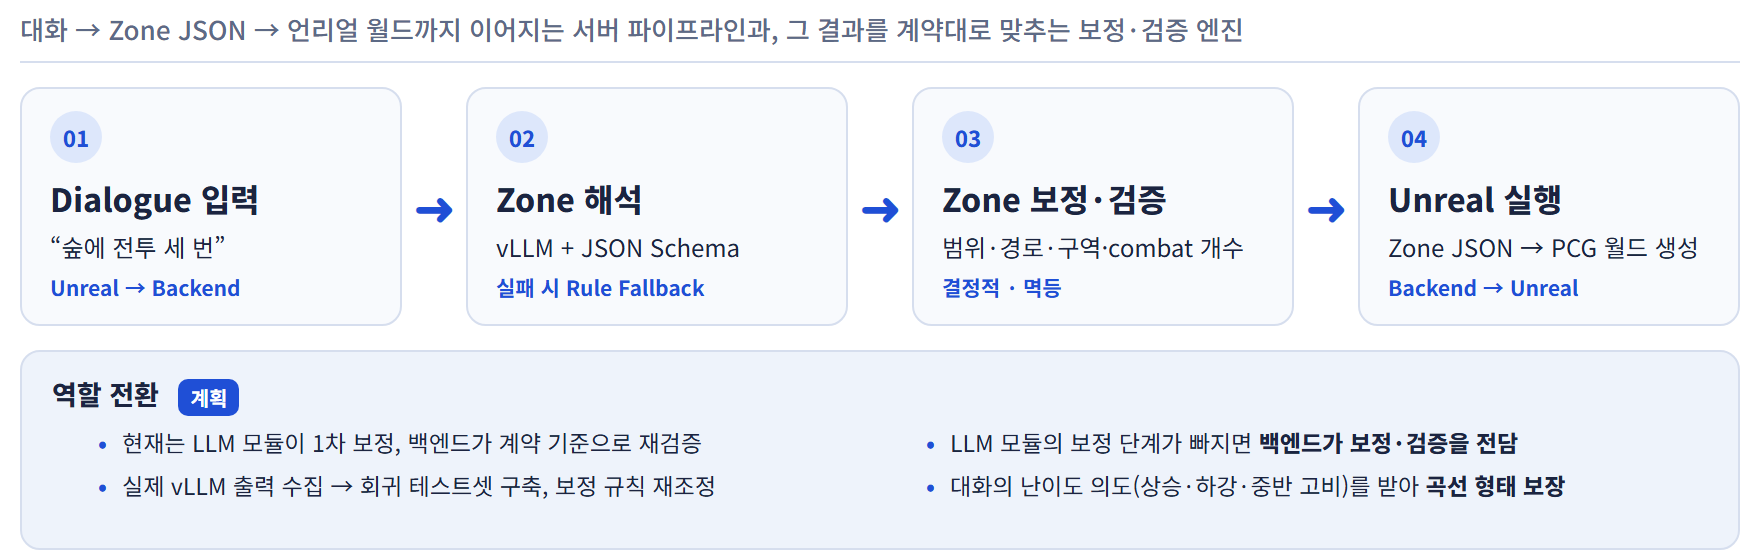
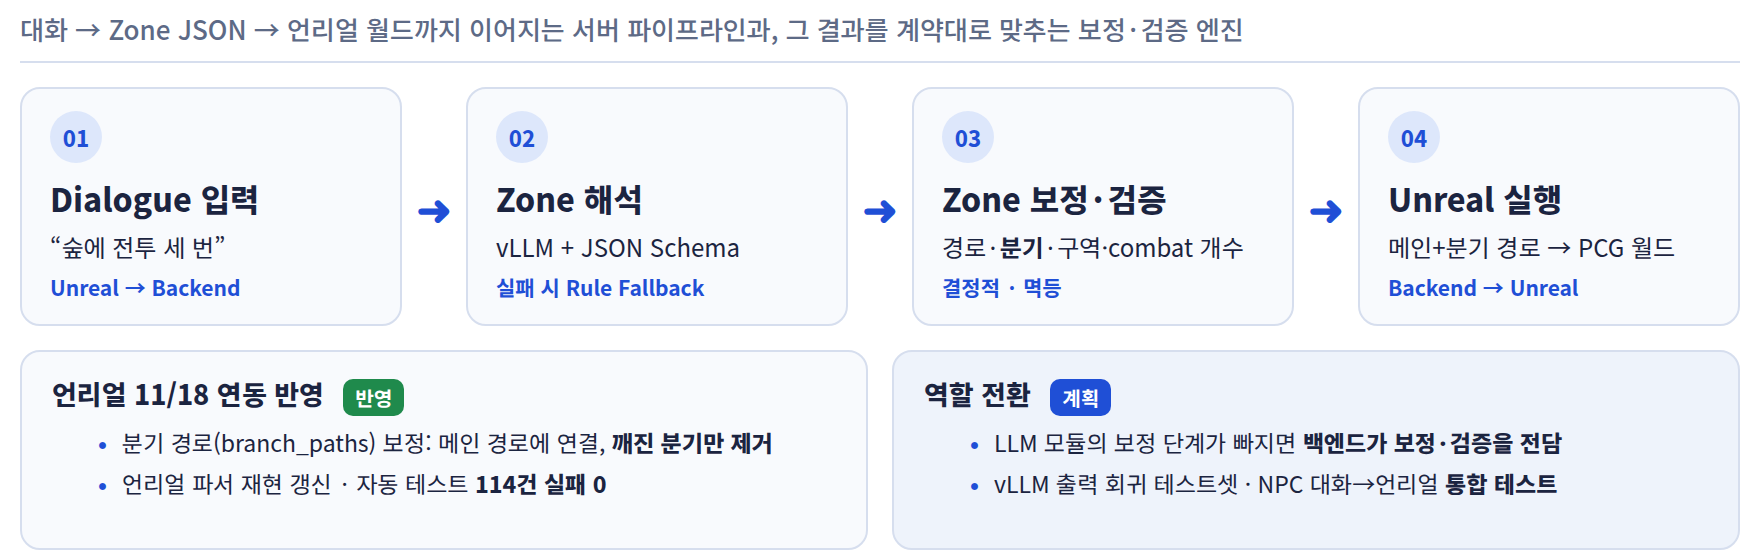
docs: 테스트 114건 반영, 발표 슬라이드 11 도식 갱신(분기 경로 반영)

diff --git a/docs/slides/slide11.html b/docs/slides/slide11.html
@@ -24,6 +24,8 @@
   .panel li { font-size:23px; line-height:1.35; padding-left:30px; position:relative; }
   .panel li::before { content:"•"; position:absolute; left:6px; color:var(--blue); font-weight:800; }
   .panel li b { font-weight:800; }
+  .panel ul.one { grid-template-columns:1fr; gap:10px; }
+  .gap { width:24px; }
 </style></head><body><div class="wrap">
   <div class="sub">대화 → Zone JSON → 언리얼 월드까지 이어지는 서버 파이프라인과, 그 결과를 계약대로 맞추는 보정·검증 엔진</div>
   <div class="steps">
@@ -31,18 +33,24 @@
     <div class="arrow">➜</div>
     <div class="card"><div class="num">02</div><h3>Zone 해석</h3><div class="d">vLLM + JSON Schema</div><div class="t">실패 시 Rule Fallback</div></div>
     <div class="arrow">➜</div>
-    <div class="card"><div class="num">03</div><h3>Zone 보정·검증</h3><div class="d">범위·경로·구역·combat 개수</div><div class="t">결정적 · 멱등</div></div>
+    <div class="card"><div class="num">03</div><h3>Zone 보정·검증</h3><div class="d">경로·<b>분기</b>·구역·combat 개수</div><div class="t">결정적 · 멱등</div></div>
     <div class="arrow">➜</div>
-    <div class="card"><div class="num">04</div><h3>Unreal 실행</h3><div class="d">Zone JSON → PCG 월드 생성</div><div class="t">Backend → Unreal</div></div>
+    <div class="card"><div class="num">04</div><h3>Unreal 실행</h3><div class="d">메인+분기 경로 → PCG 월드</div><div class="t">Backend → Unreal</div></div>
   </div>
   <div class="bottom">
+    <div class="panel">
+      <h4>언리얼 11/18 연동 반영 <span class="now">반영</span></h4>
+      <ul class="one">
+        <li>분기 경로(branch_paths) 보정: 메인 경로에 연결, <b>깨진 분기만 제거</b></li>
+        <li>언리얼 파서 재현 갱신 · 자동 테스트 <b>114건 실패 0</b></li>
+      </ul>
+    </div>
+    <div class="gap"></div>
     <div class="panel plan">
       <h4>역할 전환 <span>계획</span></h4>
-      <ul>
-        <li>현재는 LLM 모듈이 1차 보정, 백엔드가 계약 기준으로 재검증</li>
+      <ul class="one">
         <li>LLM 모듈의 보정 단계가 빠지면 <b>백엔드가 보정·검증을 전담</b></li>
-        <li>실제 vLLM 출력 수집 → 회귀 테스트셋 구축, 보정 규칙 재조정</li>
-        <li>대화의 난이도 의도(상승·하강·중반 고비)를 받아 <b>곡선 형태 보장</b></li>
+        <li>vLLM 출력 회귀 테스트셋 · NPC 대화→언리얼 <b>통합 테스트</b></li>
       </ul>
     </div>
   </div>

diff --git a/docs/TEST_RESULTS_1차.md b/docs/TEST_RESULTS_1차.md
@@ -1,6 +1,6 @@
 # 1차 테스트 결과서 — 백엔드 (LLM-Driven PCG Server)
 
-생성: 2026-11-19 15:37 (로컬) · 대상 커밋: `79ed11e` (claude/gallant-ritchie-72e2e5, 2026-11-19) · Node v26.13.1 · linux
+생성: 2026-11-19 15:43 (로컬) · 대상 커밋: `5b106b1` (claude/gallant-ritchie-72e2e5, 2026-11-19) · Node v26.13.1 · linux
 
 ## 1. 개요
 
@@ -14,7 +14,7 @@
 |---|---|
 | 실행 환경 | Node.js v26.13.1, linux x64 |
 | 러너 | Node 내장 `node:test` + `assert/strict` (추가 의존성 없음) |
-| 대상 코드 | https://github.com/ddaokki/LLM-Driven-PCG-Server — 커밋 `79ed11e` |
+| 대상 코드 | https://github.com/ddaokki/LLM-Driven-PCG-Server — 커밋 `5b106b1` |
 | 언리얼 계약 기준 | Choibw/LLMDrivenPlayablePCG `PCGZoneController.cpp` 2026-11-18 커밋 `80a1ee1` (Area 액터 자동 생성, 전 combat 클리어 시 goal 활성화, `branch_paths`·`danger`·`path_width` 반영) |
 | 입력 방식 | `validatePCGParams()` 직접 호출 / 임시 포트 HTTP 서버에 fetch |
 | 확인 수단 | assert, 불변식 검사기(`test/helpers/invariants.js`), 언리얼 목 파서(`unreal_parser_mock.js`) |
@@ -25,7 +25,7 @@
 
 | 총 항목 | 통과 | 실패 | 건너뜀 | 판정 |
 |---|---|---|---|---|
-| 112 | 108 | 0 | 4 | **전체 통과** |
+| 114 | 110 | 0 | 4 | **전체 통과** |
 
 > 건너뜀 4건은 Redis가 필요한 세션 테스트(SESSION-xx)다. 이 결과서를 생성한 환경에 Redis가 없어 실행되지 않았다(로컬 Redis 기동 후 `npm test`로 재실행 가능).
 
@@ -45,42 +45,44 @@
 
 | ID / 확인 항목 | 결과 | 소요 |
 |---|---|---|
-| BE-T01 밀도 합 정규화 + 테마별 범위 클램프 | PASS | 3.6 ms |
-| BE-T02 범위 초과 단일값(0.95)은 테마 상한으로 보정되고 리포트에 남음 | PASS | 0.2 ms |
-| BE-T03 area_type 화이트리스트: 구버전 문자열은 combat으로 | PASS | 1.0 ms |
-| BE-T04 spawn/goal 없으면 자동 추가되어 경로 양끝에 위치 | PASS | 0.4 ms |
-| BE-T05 응답 스키마: base_environment/main_path 중첩, 최상위 평평한 필드 없음 | PASS | 0.4 ms |
-| normalizeInput: 평평한 구버전과 중첩 신버전 모두 같은 형태로 | PASS | 0.3 ms |
-| BE-T11 combat_count 0/1/3 (입력 없음) | PASS | 0.6 ms |
+| BE-T01 밀도 합 정규화 + 테마별 범위 클램프 | PASS | 4.2 ms |
+| BE-T02 범위 초과 단일값(0.95)은 테마 상한으로 보정되고 리포트에 남음 | PASS | 0.3 ms |
+| BE-T03 area_type 화이트리스트: 구버전 문자열은 combat으로 | PASS | 1.2 ms |
+| BE-T04 spawn/goal 없으면 자동 추가되어 경로 양끝에 위치 | PASS | 0.5 ms |
+| BE-T05 응답 스키마: base_environment/main_path 중첩, 최상위 평평한 필드 없음 | PASS | 0.5 ms |
+| normalizeInput: 평평한 구버전과 중첩 신버전 모두 같은 형태로 | PASS | 0.2 ms |
+| BE-T11 combat_count 0/1/3 (입력 없음) | PASS | 0.7 ms |
 | BE-T12 뒤섞인 순서 → 진행도 정렬, 과밀집 → 최소 간격 0.06 | PASS | 0.4 ms |
 | V3-01 8자 경로 자기교차 해소 + hard violation 기록 | PASS | 0.4 ms |
 | V3-02 spawn-goal 거리 0.2 → 0.45 이상 | PASS | 0.4 ms |
 | V3-03 spawn/goal 중심이 경로 양끝에서 떨어져 있으면 스냅 | PASS | 0.3 ms |
-| V3-04 경로에서 먼 combat은 가장자리 거리 ≤ 0.12로 끌어옴 | PASS | 0.2 ms |
+| V3-04 경로에서 먼 combat은 가장자리 거리 ≤ 0.12로 끌어옴 | PASS | 0.3 ms |
 | V3-05 겹친 combat 두 개 → 2D 분리, 둘 다 살아남음 | PASS | 0.2 ms |
 | V3-06 난이도 곡선: combat detail_density가 진행 방향으로 단조 비감소, 값 집합 유지 | PASS | 0.3 ms |
 | V3-07 테마 4종 통과, 미지정이면 밀도로 추정, 모르는 값은 forest | PASS | 0.3 ms |
 | V3-07b 테마 밀도 프로필: desert는 나무 ≤ 0.15, grassland는 풀 ≥ 0.6 | PASS | 0.1 ms |
 | V3-08 멱등성: validate(validate(x)) deepEqual validate(x) | PASS | 0.9 ms |
-| V3-09 위→아래 진행 경로: x가 아니라 진행도 순으로 정렬 | PASS | 0.2 ms |
-| V3-10 길이 0 경로(점 전부 동일) → 기본 경로로 대체, 예외 없음 | PASS | 0.5 ms |
+| V3-09 위→아래 진행 경로: x가 아니라 진행도 순으로 정렬 | PASS | 0.3 ms |
+| V3-10 길이 0 경로(점 전부 동일) → 기본 경로로 대체, 예외 없음 | PASS | 0.6 ms |
 | V3-11 spawn 3개/goal 0개 → spawn 1개만 유지, 나머지 combat 강등, goal 추가 | PASS | 0.2 ms |
 | V3-12 debug 옵션일 때만 validation_report 포함 | PASS | 0.1 ms |
-| V3-13 구역 9개 이상이면 8개로 제한(spawn/goal 유지) | PASS | 0.2 ms |
+| V3-13 구역 9개 이상이면 8개로 제한(spawn/goal 유지) | PASS | 0.3 ms |
 | V3-14 combatCount 옵션이 입력과 함께 오면 그 개수로 맞춤(부족분 추가/초과분 제거) | PASS | 0.3 ms |
 | V3-15 급회전(헤어핀) 완화: 출력 경로에 25° 미만 꼭짓점 없음 | PASS | 0.2 ms |
-| 타입 오염: 문자열/NaN/null/배열 아님 → 예외 없이 유효한 존 | PASS | 0.2 ms |
+| 타입 오염: 문자열/NaN/null/배열 아님 → 예외 없이 유효한 존 | PASS | 0.3 ms |
 | V3-16 처음에 겹쳐 있던 큰 combat들은 간격 확보 후 반지름이 과도하게 줄지 않음(최종 위치 기준 축소) | PASS | 0.2 ms |
-| V3-17 (리뷰 Important-1) 레이아웃 루프가 상한에 걸려도 최종 반지름 패스로 겹침 0 | PASS | 0.3 ms |
-| V3-18 (리뷰 Important-3) areas 80,000개 + combat_count 0 → 1초 이내 | PASS | 13.6 ms |
-| V3-19 언리얼 11-18 샘플 → shortcut 1개 유지, 양 끝 메인 경로 위, 언리얼 파서 통과 | PASS | 1.2 ms |
-| V3-20 branch 좌표가 문자열/음수/1 초과 → 여백 안으로 보정, 언리얼 파서 통과 | PASS | 0.3 ms |
+| V3-17 (리뷰 Important-1) 레이아웃 루프가 상한에 걸려도 최종 반지름 패스로 겹침 0 | PASS | 0.4 ms |
+| V3-18 (리뷰 Important-3) areas 80,000개 + combat_count 0 → 1초 이내 | PASS | 15.0 ms |
+| V3-19 언리얼 11-18 샘플 → shortcut 1개 유지, 양 끝 메인 경로 위, 언리얼 파서 통과 | PASS | 1.5 ms |
+| V3-20 branch 좌표가 문자열/음수/1 초과 → 여백 안으로 보정, 언리얼 파서 통과 | PASS | 0.4 ms |
 | V3-21 branch_paths가 배열 아님 → 키 없이 정상 존, 객체/문자열은 리포트에 기록 | PASS | 0.3 ms |
 | V3-22 유효 분기 3개 → 앞 2개만 | PASS | 0.2 ms |
 | V3-23 shortcut 끝점이 메인 진행도상 시작점보다 앞 → 점 순서 뒤집어 진행 방향 일치 | PASS | 0.2 ms |
 | V3-24 점 1개 / 길이 0.1 미만 / 객체 아님 → 그 분기만 버리고 이유 기록 | PASS | 0.2 ms |
-| V3-25 branch_paths 없는 입력 → 응답에 키 자체가 없음(기존 계약 불변) | PASS | 0.2 ms |
-| V3-26 branch 포함 입력도 멱등: validate(validate(x)) === validate(x) | PASS | 0.6 ms |
+| V3-25 branch_paths 없는 입력 → 응답에 키 자체가 없음(기존 계약 불변) | PASS | 0.3 ms |
+| V3-26 branch 포함 입력도 멱등: validate(validate(x)) === validate(x) | PASS | 0.8 ms |
+| V3-27 (리뷰 Important-1) 경로에서 1e-4 이내로 붙은 끝점도 반올림 후 메인 경로 위 + 멱등 | PASS | 0.4 ms |
+| V3-28 (리뷰 Important-2) 지름길 진행도 차가 0.06 경계 근처여도 멱등 | PASS | 0.2 ms |
 
 ### 4.2 강건성 테스트 — 무작위 입력 2,000건 (LLM 명세 LLM-T06 대응, BE-FUZZ)
 
@@ -88,7 +90,7 @@
 
 | ID / 확인 항목 | 결과 | 소요 |
 |---|---|---|
-| BE-FUZZ 무작위 입력 2000건: 예외 0, 불변식 100%, 멱등성 100% | PASS | 287.5 ms |
+| BE-FUZZ 무작위 입력 2000건: 예외 0, 불변식 100%, 멱등성 100% | PASS | 297.4 ms |
 
 ### 4.3 단위 테스트 — 기하 유틸 (lib/geometry.js)
 
@@ -97,9 +99,9 @@
 | ID / 확인 항목 | 결과 | 소요 |
 |---|---|---|
 | segmentsIntersect: X자 교차는 true | PASS | 0.8 ms |
-| segmentsIntersect: 끝점만 공유하는 인접 구간은 false | PASS | 3.5 ms |
+| segmentsIntersect: 끝점만 공유하는 인접 구간은 false | PASS | 3.6 ms |
 | segmentsIntersect: 평행 비접촉은 false | PASS | 0.1 ms |
-| projectToPolyline: 경로 중간 위 점은 t≈0.5, dist≈0 | PASS | 0.4 ms |
+| projectToPolyline: 경로 중간 위 점은 t≈0.5, dist≈0 | PASS | 0.3 ms |
 | projectToPolyline: 경로 옆 점은 수직 거리와 투영점 반환 | PASS | 0.6 ms |
 | pointAtProgress: t=0 첫 점, t=1 마지막 점, t=0.5 중간 | PASS | 0.2 ms |
 | turnAngleDeg: 직진 180, 직각 90, 헤어핀 ~0 | PASS | 0.1 ms |
@@ -117,10 +119,10 @@
 
 | ID / 확인 항목 | 결과 | 소요 |
 |---|---|---|
-| VALID_THEMES는 4종 | PASS | 1.2 ms |
+| VALID_THEMES는 4종 | PASS | 1.3 ms |
 | inferTheme: 바위 많고 풀/나무 없음 → desert | PASS | 0.2 ms |
 | inferTheme: 풀 많고 나무 적음 → grassland | PASS | 0.1 ms |
-| inferTheme: forest 기본값 근처 → forest | PASS | 0.2 ms |
+| inferTheme: forest 기본값 근처 → forest | PASS | 0.3 ms |
 | inferTheme: 입력 없음 → forest | PASS | 0.1 ms |
 | getProfile: 모르는 테마는 forest 프로필 | PASS | 0.1 ms |
 | CorrectionReport: 점수/카운트 계산 | PASS | 0.2 ms |
@@ -132,21 +134,21 @@
 
 | ID / 확인 항목 | 결과 | 소요 |
 |---|---|---|
-| RULE-01 '나무가 빽빽한 숲, 전투 3번' → forest, combat 3, tree 성향 높음 | PASS | 6.6 ms |
-| RULE-02 '전투 없이 탐험' → combat 0 | PASS | 2.2 ms |
-| RULE-03 한글 수사: '세 번 싸우고' → 3, '두 개의 전투' → 2 | PASS | 0.8 ms |
-| RULE-04 테마 키워드: 사막/초원/설원, 영어도 | PASS | 3.3 ms |
-| RULE-05 길 모양/폭, 강도, 크기 | PASS | 1.0 ms |
-| RULE-06 빈 dialogue / 비배열 / 텍스트 없음 → 기본 의도(forest, combat 1) | PASS | 0.3 ms |
-| RULE-07 npc 질문의 키워드는 player 답변보다 약하게 반영 | PASS | 0.6 ms |
-| RULE-08 hashDialogue 결정적, 내용 다르면 다름 | PASS | 0.7 ms |
-| RULE-09 mulberry32: 같은 seed 같은 수열, [0,1) | PASS | 0.8 ms |
-| RULE-10 buildCandidateZone: 같은 의도+seed → deepEqual, seed 다르면 경로 다름 | PASS | 3.7 ms |
-| RULE-11 후보 → validator 통과 후 combat 수/테마 보존, 불변식 만족 (seed 0~199) | PASS | 167.7 ms |
-| RULE-12 후보 자체가 validator를 거의 안 거치게 생성됨(평균 보정 수 작음) | PASS | 6.1 ms |
-| RULE-13 '격렬한 큰 전투 두 번' → 2 ('격렬한'의 '한'을 수사로 오인하지 않음) | PASS | 1.5 ms |
-| RULE-14 (리뷰 Important-4) 전투와 무관한 숫자/단어는 전투 수로 세지 않음 | PASS | 0.7 ms |
-| RULE-15 (리뷰 Important-4) 영어 키워드는 단어 경계, '눈'은 눈앞/눈치에 안 걸림 | PASS | 0.5 ms |
+| RULE-01 '나무가 빽빽한 숲, 전투 3번' → forest, combat 3, tree 성향 높음 | PASS | 2.3 ms |
+| RULE-02 '전투 없이 탐험' → combat 0 | PASS | 0.7 ms |
+| RULE-03 한글 수사: '세 번 싸우고' → 3, '두 개의 전투' → 2 | PASS | 0.3 ms |
+| RULE-04 테마 키워드: 사막/초원/설원, 영어도 | PASS | 0.9 ms |
+| RULE-05 길 모양/폭, 강도, 크기 | PASS | 0.4 ms |
+| RULE-06 빈 dialogue / 비배열 / 텍스트 없음 → 기본 의도(forest, combat 1) | PASS | 0.1 ms |
+| RULE-07 npc 질문의 키워드는 player 답변보다 약하게 반영 | PASS | 0.2 ms |
+| RULE-08 hashDialogue 결정적, 내용 다르면 다름 | PASS | 0.2 ms |
+| RULE-09 mulberry32: 같은 seed 같은 수열, [0,1) | PASS | 0.2 ms |
+| RULE-10 buildCandidateZone: 같은 의도+seed → deepEqual, seed 다르면 경로 다름 | PASS | 1.3 ms |
+| RULE-11 후보 → validator 통과 후 combat 수/테마 보존, 불변식 만족 (seed 0~199) | PASS | 43.3 ms |
+| RULE-12 후보 자체가 validator를 거의 안 거치게 생성됨(평균 보정 수 작음) | PASS | 1.8 ms |
+| RULE-13 '격렬한 큰 전투 두 번' → 2 ('격렬한'의 '한'을 수사로 오인하지 않음) | PASS | 0.3 ms |
+| RULE-14 (리뷰 Important-4) 전투와 무관한 숫자/단어는 전투 수로 세지 않음 | PASS | 0.3 ms |
+| RULE-15 (리뷰 Important-4) 영어 키워드는 단어 경계, '눈'은 눈앞/눈치에 안 걸림 | PASS | 0.2 ms |
 
 ### 4.6 기능 테스트 — LLM 클라이언트/폴백 (LLM-xx, 명세 '후속 테스트: 호출 실패·시간 초과 시 기본 Zone')
 
@@ -154,15 +156,15 @@
 
 | ID / 확인 항목 | 결과 | 소요 |
 |---|---|---|
-| LLM-01 vllm 정상 응답 → source=vllm, 후보는 LLM JSON | PASS | 23.4 ms |
-| LLM-02 500 응답 → rule 폴백 + llm_error | PASS | 2.8 ms |
-| LLM-03 타임아웃(50ms, fetch 무응답) → rule 폴백, 500ms 이내 | PASS | 50.5 ms |
-| LLM-04 잘못된 JSON 본문 → rule 폴백 | PASS | 0.6 ms |
+| LLM-01 vllm 정상 응답 → source=vllm, 후보는 LLM JSON | PASS | 26.3 ms |
+| LLM-02 500 응답 → rule 폴백 + llm_error | PASS | 2.7 ms |
+| LLM-03 타임아웃(50ms, fetch 무응답) → rule 폴백, 500ms 이내 | PASS | 51.7 ms |
+| LLM-04 잘못된 JSON 본문 → rule 폴백 | PASS | 0.7 ms |
 | LLM-05 mode=rule → fetch 호출 없음 | PASS | 0.3 ms |
-| LLM-06 mode=auto + apiUrl 없음 → rule, fetch 호출 없음 | PASS | 0.3 ms |
-| LLM-07 seed/combatCount 옵션이 rule 후보에 반영 | PASS | 1.1 ms |
-| LLM-08 buildMessages: system에 규칙, user에 대화+이전 배경 | PASS | 0.2 ms |
-| LLM-09 ZONE_SCHEMA: theme enum 4종, areas enum 3종, combat_count 포함 | PASS | 0.1 ms |
+| LLM-06 mode=auto + apiUrl 없음 → rule, fetch 호출 없음 | PASS | 0.4 ms |
+| LLM-07 seed/combatCount 옵션이 rule 후보에 반영 | PASS | 1.0 ms |
+| LLM-08 buildMessages: system에 규칙, user에 대화+이전 배경 | PASS | 0.1 ms |
+| LLM-09 ZONE_SCHEMA: theme enum 4종, areas enum 3종, combat_count 포함 | PASS | 0.2 ms |
 
 ### 4.7 계약 테스트 — 언리얼 ApplyZoneJsonString 목 파서 (명세 BE-T10, UE-MOCK-xx)
 
@@ -170,20 +172,20 @@
 
 | ID / 확인 항목 | 결과 | 소요 |
 |---|---|---|
-| UE-MOCK-01 validator 기본 존은 파싱 성공 | PASS | 3.5 ms |
-| UE-MOCK-02 평평한 구버전 스키마(base_environment 없음) → 실패 | PASS | 0.5 ms |
+| UE-MOCK-01 validator 기본 존은 파싱 성공 | PASS | 2.9 ms |
+| UE-MOCK-02 평평한 구버전 스키마(base_environment 없음) → 실패 | PASS | 0.4 ms |
 | UE-MOCK-03 경로 점 1개 → 실패 | PASS | 0.3 ms |
 | UE-MOCK-04 숫자 아닌 점은 건너뛰고 남은 점이 2개 미만이면 실패 | PASS | 0.3 ms |
-| UE-MOCK-05 areas 빈 배열 → 실패, theme 누락 → 실패, JSON 문법 오류 → 실패 | PASS | 1.1 ms |
+| UE-MOCK-05 areas 빈 배열 → 실패, theme 누락 → 실패, JSON 문법 오류 → 실패 | PASS | 0.9 ms |
 | UE-MOCK-06 클램프/기본값: 밀도 0~1, radius 0.01~0.30, path_width 100~1500, 모르는 area_type → combat | PASS | 0.3 ms |
 | UE-MOCK-07 봉투(success/dataForUnreal)로 감싼 응답 → 실패 (언리얼은 최상위를 그대로 읽음) | PASS | 0.2 ms |
 | UE-MOCK-08 combat 개수 = 예상 전투 구역 수(ExpectedCombatAreaCount) 산출 | PASS | 0.3 ms |
 | UM-B1 언리얼 11-18 샘플(shortcut 1개) → 파싱 성공, paths = [main, shortcut] | PASS | 0.4 ms |
-| UM-B2 branch_paths가 배열이 아님 → 존 전체 실패 | PASS | 0.3 ms |
+| UM-B2 branch_paths가 배열이 아님 → 존 전체 실패 | PASS | 0.2 ms |
 | UM-B3 branch 원소가 객체 아님 / 점 1개 → 존 전체 실패 | PASS | 0.2 ms |
 | UM-B4 branch 좌표가 [0,1] 밖 → 클램프 없이 존 전체 실패 | PASS | 0.1 ms |
 | UM-B5 branch 좌표가 숫자 아님 → 존 전체 실패 | PASS | 0.1 ms |
-| UM-B6 branch path_width가 숫자 아님 → 무시하고 기본 폭, 빈 배열 → 성공(main만) | PASS | 0.2 ms |
+| UM-B6 branch path_width가 숫자 아님 → 무시하고 기본 폭, 빈 배열 → 성공(main만) | PASS | 0.1 ms |
 
 ### 4.8 통합/비기능 테스트 — HTTP 엔드포인트, Redis 장애 허용 (명세 4.2 BE-T06~T09, T11 + 신규 T13~T17)
 
@@ -191,16 +193,16 @@
 
 | ID / 확인 항목 | 결과 | 소요 |
 |---|---|---|
-| BE-T06 GET /health → {status:running} | PASS | 41.8 ms |
+| BE-T06 GET /health → {status:running} | PASS | 31.4 ms |
 | BE-T07 POST /generate-zone 빈 body → 200, 봉투 없는 Zone JSON, 언리얼 목 파서 통과 | PASS | 1.02 s |
-| BE-T08 pcg_json(BD-03: 구버전 area_type + 문자열 밀도) → 보정 반영 | PASS | 3.2 ms |
-| BE-T11 combat_count 0/3 → combat 개수 가변 | PASS | 4.2 ms |
-| BE-T13 dialogue '사막, 전투 2번' → theme desert, combat 2 (규칙 기반 해석) | PASS | 3.9 ms |
-| BE-T14 같은 dialogue 두 번 → 같은 Zone (재현성), seed 주면 다른 Zone | PASS | 5.8 ms |
-| BE-T15 ?debug=1 → validation_report 포함(source/seed 포함), 없으면 부재 | PASS | 5.1 ms |
-| BE-T16 잘못된 요청: dialogue가 배열 아님 → 400, JSON 문법 오류 → 400 | PASS | 2.8 ms |
-| BE-T17 pcg_json이 깨진 값(문자열/배열/타입 오염) → 200 + 유효한 Zone | PASS | 3.7 ms |
-| BE-T09 Redis 미연결 상태에서 /api/chat/send → 503, /api/world/generate → 200 보정 결과 | PASS | 503.8 ms |
+| BE-T08 pcg_json(BD-03: 구버전 area_type + 문자열 밀도) → 보정 반영 | PASS | 4.3 ms |
+| BE-T11 combat_count 0/3 → combat 개수 가변 | PASS | 5.9 ms |
+| BE-T13 dialogue '사막, 전투 2번' → theme desert, combat 2 (규칙 기반 해석) | PASS | 5.4 ms |
+| BE-T14 같은 dialogue 두 번 → 같은 Zone (재현성), seed 주면 다른 Zone | PASS | 7.5 ms |
+| BE-T15 ?debug=1 → validation_report 포함(source/seed 포함), 없으면 부재 | PASS | 5.9 ms |
+| BE-T16 잘못된 요청: dialogue가 배열 아님 → 400, JSON 문법 오류 → 400 | PASS | 2.7 ms |
+| BE-T17 pcg_json이 깨진 값(문자열/배열/타입 오염) → 200 + 유효한 Zone | PASS | 3.6 ms |
+| BE-T09 Redis 미연결 상태에서 /api/chat/send → 503, /api/world/generate → 200 보정 결과 | PASS | 505.1 ms |
 
 ### 4.9 통합 테스트 — vLLM 경로(가짜 vLLM 서버)에서 combat_count 강제 (BE-T18)
 
@@ -216,7 +218,7 @@
 
 | ID / 확인 항목 | 결과 | 소요 |
 |---|---|---|
-| SESSION-01 노이즈 발화('네', '오케이...')는 적재되지 않음 | SKIP | 1.00 s |
+| SESSION-01 노이즈 발화('네', '오케이...')는 적재되지 않음 | SKIP | 1.01 s |
 | SESSION-02 윈도우 10개 초과 시 핵심 키워드 발화는 보존 | SKIP | 0.2 ms |
 | SESSION-03 processLLMResponse: 보정 결과 + updated_background 저장 | SKIP | 0.1 ms |
 | SESSION-04 isAvailable()는 연결 상태를 반영 | SKIP | 0.1 ms |

diff --git a/README.md b/README.md
@@ -10,7 +10,7 @@ dialogue ──► 후보 Zone 생성 (vLLM | 규칙 기반 해석기) ──►
 - **validator v3**: LLM이 낸 값을 "범위만 맞추는" 수준이 아니라 경로 기하·경로-구역 결합·2D 겹침·테마·난이도까지 보정해서, 어떤 입력이 와도 언리얼이 그대로 읽을 수 있는 유효한 존을 만든다. 결정적(난수 없음)이고 멱등(결과를 다시 넣어도 그대로)이다.
 - **dialogue 파이프라인**: vLLM(OpenAI 호환, JSON Schema 강제)이 있으면 호출하고, 없거나 실패/타임아웃이면 규칙 기반 해석기가 대화에서 테마·밀도·길 모양·전투 수·강도를 뽑아 후보 존을 만든다. GPU 없이도 "대화가 바뀌면 존이 바뀌는" 시연이 된다.
 - **장애 허용**: Redis가 없어도 `/generate-zone`은 정상. LLM 서버가 죽어도 응답은 항상 유효한 존.
-- **테스트**: 테스트 명세서 BE-T01~T12를 포함한 자동화 테스트 112건(Redis 없으면 세션 4건 건너뜀) + 무작위 입력 2,000건 fuzz(언리얼 목 파서 통과 포함). `npm run test:report`로 결과서(md/docx) 자동 생성.
+- **테스트**: 테스트 명세서 BE-T01~T12를 포함한 자동화 테스트 114건(Redis 없으면 세션 4건 건너뜀) + 무작위 입력 2,000건 fuzz(언리얼 목 파서 통과 포함). `npm run test:report`로 결과서(md/docx) 자동 생성.
 
 ## 요구사항
 
@@ -145,7 +145,7 @@ Content-Type: application/json
 | 3 | path | 숫자 아닌 점 제거 → 점 2~12 → 가장자리 여백 → **근접점 병합(0.02)** → **2-opt로 자기교차 해소** → **급회전(<25°) 완화/제거** → **spawn-goal 거리 0.45 확보** (안정될 때까지 반복). 복구 불가면 기본 경로 |
 | 4 | areas 값 | area_type 화이트리스트(밖이면 combat), radius [0.01, 0.30], detail [0,1], 중심 누락 시 경로 위 균등 배치 |
 | 5 | 구조 | spawn/goal 정확히 1개(여분은 combat으로 강등, 없으면 추가), `combat_count` 반영(부족분은 가장 넓은 빈 구간에 추가), 구역 ≤ 8 |
-| 3b | branch | `branch_paths` 최대 2개. 타입 `branch`/`shortcut`(그 외 branch), 폭 [100,1500] 기본 400, 메인과 같은 기하 보정(spawn-goal 거리 제외) → 시작점을 메인 경로 위로 스냅, shortcut은 끝점도 스냅하고 역방향이면 뒤집음 → 점 2개 미만·길이 < 0.1·교차 잔존·shortcut 진행도 차 < 0.06이면 버림 |
+| 3b | branch | `branch_paths` 최대 2개. 타입 `branch`/`shortcut`(그 외 branch), 폭 [100,1500] 기본 400. shortcut이 역방향이면 뒤집음 → 시작점을 메인 경로 위로 스냅(shortcut은 끝점도) → 메인과 같은 기하 보정(spawn-goal 거리 제외, 양 끝점 보존) → 점 2개 미만·길이 < 0.1·교차 잔존·shortcut 진행도 차 < 0.06이면 버림 |
 | 6 | 결합 | spawn 중심 = 경로 첫 점, goal 중심 = 경로 끝 점으로 스냅 |
 | 7 | 정렬 | 각 구역을 경로에 투영해 **호길이 진행도 t**로 정렬 (x좌표 정렬은 위→아래 경로에서 틀림) |
 | 8 | 간격/근접/겹침 | 경로 좌표계(t, 수직 오프셋)에서 1D 간격 문제로 풀어 인접 간격 0.06 확보, 오프셋을 r+0.12 이내로 제한, 반지름은 "입력값과 최종 위치에서 겹치지 않는 최대값" 중 작은 쪽 → 겹침 0 |
